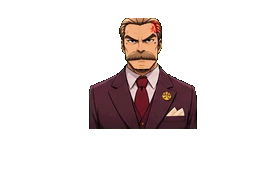
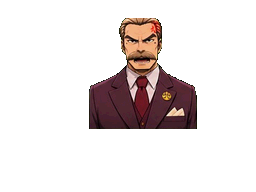
Penna: al hablar solo se mueve la boca (antes cambiaba el cuerpo entero en 4 poses)
Claude-Session: https://claude.ai/code/session_01Xb94a44mJyTYV8GKKMfxw2

Changed region(s): [[0.4688, 0.2812, 0.625, 0.4062]]

diff --git a/prueba-final.html b/prueba-final.html
@@ -5,7 +5,7 @@
 <meta name="viewport" content="width=device-width, initial-scale=1">
 <title>ACTA CERO — Prueba del final</title>
 <link href="https://fonts.googleapis.com/css2?family=Bebas+Neue&family=Pixelify+Sans:wght@400;700&display=swap" rel="stylesheet">
-<link rel="stylesheet" href="css/style.css?v=49">
+<link rel="stylesheet" href="css/style.css?v=50">
 </head>
 <body>
 <div id="ds">
@@ -49,15 +49,15 @@
     <div class="hint">Activa el sonido · toca la pantalla de abajo para avanzar</div>
   </div>
 </div>
-<script src="js/casos.js?v=49"></script>
-<script src="casos/caso1.js?v=49"></script>
-<script src="casos/caso2.js?v=49"></script>
-<script src="js/audio.js?v=49"></script>
-<script src="js/sprites.js?v=49"></script>
-<script src="js/assets.js?v=49"></script>
-<script src="js/engine.js?v=49"></script>
-<script src="js/investigacion.js?v=49"></script>
-<script src="js/musica.js?v=49"></script>
+<script src="js/casos.js?v=50"></script>
+<script src="casos/caso1.js?v=50"></script>
+<script src="casos/caso2.js?v=50"></script>
+<script src="js/audio.js?v=50"></script>
+<script src="js/sprites.js?v=50"></script>
+<script src="js/assets.js?v=50"></script>
+<script src="js/engine.js?v=50"></script>
+<script src="js/investigacion.js?v=50"></script>
+<script src="js/musica.js?v=50"></script>
 <script>
 /* Versión de prueba: salta directo al veredicto y la escena final del Caso 1. No toca la partida guardada. */
 saveGame=function(){ return true; }; clearSave=function(){};

diff --git a/index.html b/index.html
@@ -5,7 +5,7 @@
 <meta name="viewport" content="width=device-width, initial-scale=1">
 <title>ACTA CERO</title>
 <link href="https://fonts.googleapis.com/css2?family=Bebas+Neue&family=Pixelify+Sans:wght@400;700&display=swap" rel="stylesheet">
-<link rel="stylesheet" href="css/style.css?v=49">
+<link rel="stylesheet" href="css/style.css?v=50">
 </head>
 <body>
 <div id="ds">
@@ -48,14 +48,14 @@
     <div class="hint">Activa el sonido · toca la pantalla de abajo para avanzar</div>
   </div>
 </div>
-<script src="js/casos.js?v=49"></script>
-<script src="casos/caso1.js?v=49"></script>
-<script src="casos/caso2.js?v=49"></script>
-<script src="js/audio.js?v=49"></script>
-<script src="js/sprites.js?v=49"></script>
-<script src="js/assets.js?v=49"></script>
-<script src="js/engine.js?v=49"></script>
-<script src="js/investigacion.js?v=49"></script>
-<script src="js/musica.js?v=49"></script>
+<script src="js/casos.js?v=50"></script>
+<script src="casos/caso1.js?v=50"></script>
+<script src="casos/caso2.js?v=50"></script>
+<script src="js/audio.js?v=50"></script>
+<script src="js/sprites.js?v=50"></script>
+<script src="js/assets.js?v=50"></script>
+<script src="js/engine.js?v=50"></script>
+<script src="js/investigacion.js?v=50"></script>
+<script src="js/musica.js?v=50"></script>
 </body>
 </html>

diff --git a/herramientas/penna.py b/herramientas/penna.py
@@ -59,29 +59,50 @@ def place(k,T):
 F={}; log=[]
 for k in range(40):
     F[k+1],sc=place(k, PROF if k<24 else FRON); log.append((k+1,sc))
-def boxof(ca,cb):
-    d=np.abs(np.array(F[ca])[...,:3].astype(int)-np.array(F[cb])[...,:3].astype(int)).sum(2)
-    a=np.array(F[ca])[...,3]>0; ys=np.where(a.any(1))[0]; t=ys[0]
-    d[:t+30]=0; d[t+75:]=0; m=d>90
-    yy,xx=np.where(m); cy,cx=int(np.median(yy)),int(np.median(xx))
-    return (max(cy-6,0),cy+7,max(cx-9,0),cx+10)
-BP=boxof(1,3); BF=boxof(25,26)
-def talk(closed,opn,box):
-    a=np.array(F[closed]); b=np.array(F[opn]); y0,y1,x0,x1=box
+def shift_to(a,b):
+    """Corre el cuadro b unos píxeles para que su cara calce con la de a."""
+    al=a[...,3]>0; t=np.where(al.any(1))[0][0]; best=(1e18,0,0)
+    ga=a[t:t+80,...,:3].astype(int)
+    for dy in range(-8,9):
+        for dx in range(-8,9):
+            bb=np.roll(np.roll(b,dy,0),dx,1)[t:t+80,...,:3].astype(int)
+            v=np.abs(ga-bb).sum(2).mean()
+            if v<best[0]: best=(v,dx,dy)
+    return np.roll(np.roll(b,best[2],0),best[1],1)
+def mouthmask(a,b):
     d=np.abs(a[...,:3].astype(int)-b[...,:3].astype(int)).sum(2)
-    m=np.zeros(a.shape[:2],bool); m[y0:y1,x0:x1]=(d[y0:y1,x0:x1]>60)|((a[y0:y1,x0:x1,3]==0)!=(b[y0:y1,x0:x1,3]==0))
+    t=np.where((a[...,3]>0).any(1))[0][0]
+    m=((d>80)|((a[...,3]>0)!=(b[...,3]>0))); m[:t+38]=0; m[t+84:]=0
+    al=a[...,3]>0
+    if FRONT_NOW[0]:                                   # de frente: la boca está al centro de la cabeza
+        xs=np.where(al[t:t+40].any(0))[0]; cx=(xs.min()+xs.max())//2; m[:,:cx-17]=0; m[:,cx+18:]=0
+    else:                                              # de perfil (mira a la izquierda): la boca está bajo la punta del bigote
+        xs=np.where(al[t+35:t+60].any(0))[0]; x0=xs.min(); m[:,:x0]=0; m[:,x0+34:]=0
+    m8=cv2.dilate(m.astype(np.uint8),np.ones((3,3),np.uint8))
+    n,lab,st,_=cv2.connectedComponentsWithStats(m8,8)
+    if n<2: return np.zeros_like(m)
+    k=max(range(1,n),key=lambda i:st[i,4]); x,y,w,h=st[k,:4]
+    w,h=min(w,34),min(h,22)                                              # nunca más grande que una boca (desde el bigote hacia abajo)
+    box=np.zeros_like(m); box[y:y+h,x:x+w]=True
+    return cv2.dilate((m&box).astype(np.uint8),np.ones((3,3),np.uint8)).astype(bool)&box
+FRONT_NOW=[False]
+def talk(closed,opn,box=None):
+    """Hablar = cuadro cerrado + solo la boca del cuadro abierto (alineado a la cara)."""
+    FRONT_NOW[0]=closed>=25
+    a=np.array(F[closed]); b=shift_to(a,np.array(F[opn])); m=mouthmask(a,b)
     o=a.copy(); o[m]=b[m]; return Image.fromarray(o)
+BP=BF=None
 # nombre: (cuadro cerrado, cuadro con la boca abierta o None)
-P={'base':(1,3),'serious':(2,3),'smug':(4,3),'smile':(6,3),'proud':(7,None),'proud2':(8,None),'think':(9,3),'think2':(10,3),
+P={'base':(1,3),'serious':(2,3),'smug':(4,3),'smile':(6,3),'proud':(7,None),'proud2':(8,None),'think':(9,None),'think2':(10,None),
    'cross':(11,12),'gesture':(13,14),'point':(15,16),'sweat':(17,3),'shock':(18,None),'angry':(19,20),'facepalm':(21,None),
    'down':(22,None),'cuff':(23,3),'cross2':(24,3)}
-FR={'base':(25,26),'smug':(28,27),'serious':(29,26),'think':(30,26),'think2':(31,26),'cross':(32,26),'gesture':(33,26),
+FR={'base':(25,26),'smug':(28,27),'serious':(29,26),'think':(30,None),'think2':(31,None),'cross':(32,26),'gesture':(33,26),
     'smile':(35,34),'proud':(36,None),'shock':(37,None),'angry':(38,39),'down':(40,None)}
 def save(n,im): im.save(f'{OUT}/{n}.png',optimize=True)
 for pre,TAB,BOX in (('',P,BP),('frente_',FR,BF)):
     for n,(c,o) in TAB.items():
         save(pre+n,F[c]); t=n+'Talk' if n!='base' else 'talk'
-        save(pre+t, F[c] if o is None else (F[o] if (c,o) in ((11,12),(13,14),(15,16),(19,20)) else talk(c,o,BOX)))
+        save(pre+t, F[c] if o is None else talk(c,o,BOX))       # siempre: cuadro cerrado + solo la boca (el cuerpo no se mueve)
 b0=F[1]; l,t,r_,b_=b0.getbbox(); hb=b0.crop((0,t,CW,t+40)).getbbox(); cx=(hb[0]+hb[2])//2
 b0.crop((cx-33,t,cx+33,t+70)).transpose(Image.FLIP_LEFT_RIGHT).save(f'{OUT}/face.png')
 print(log)
